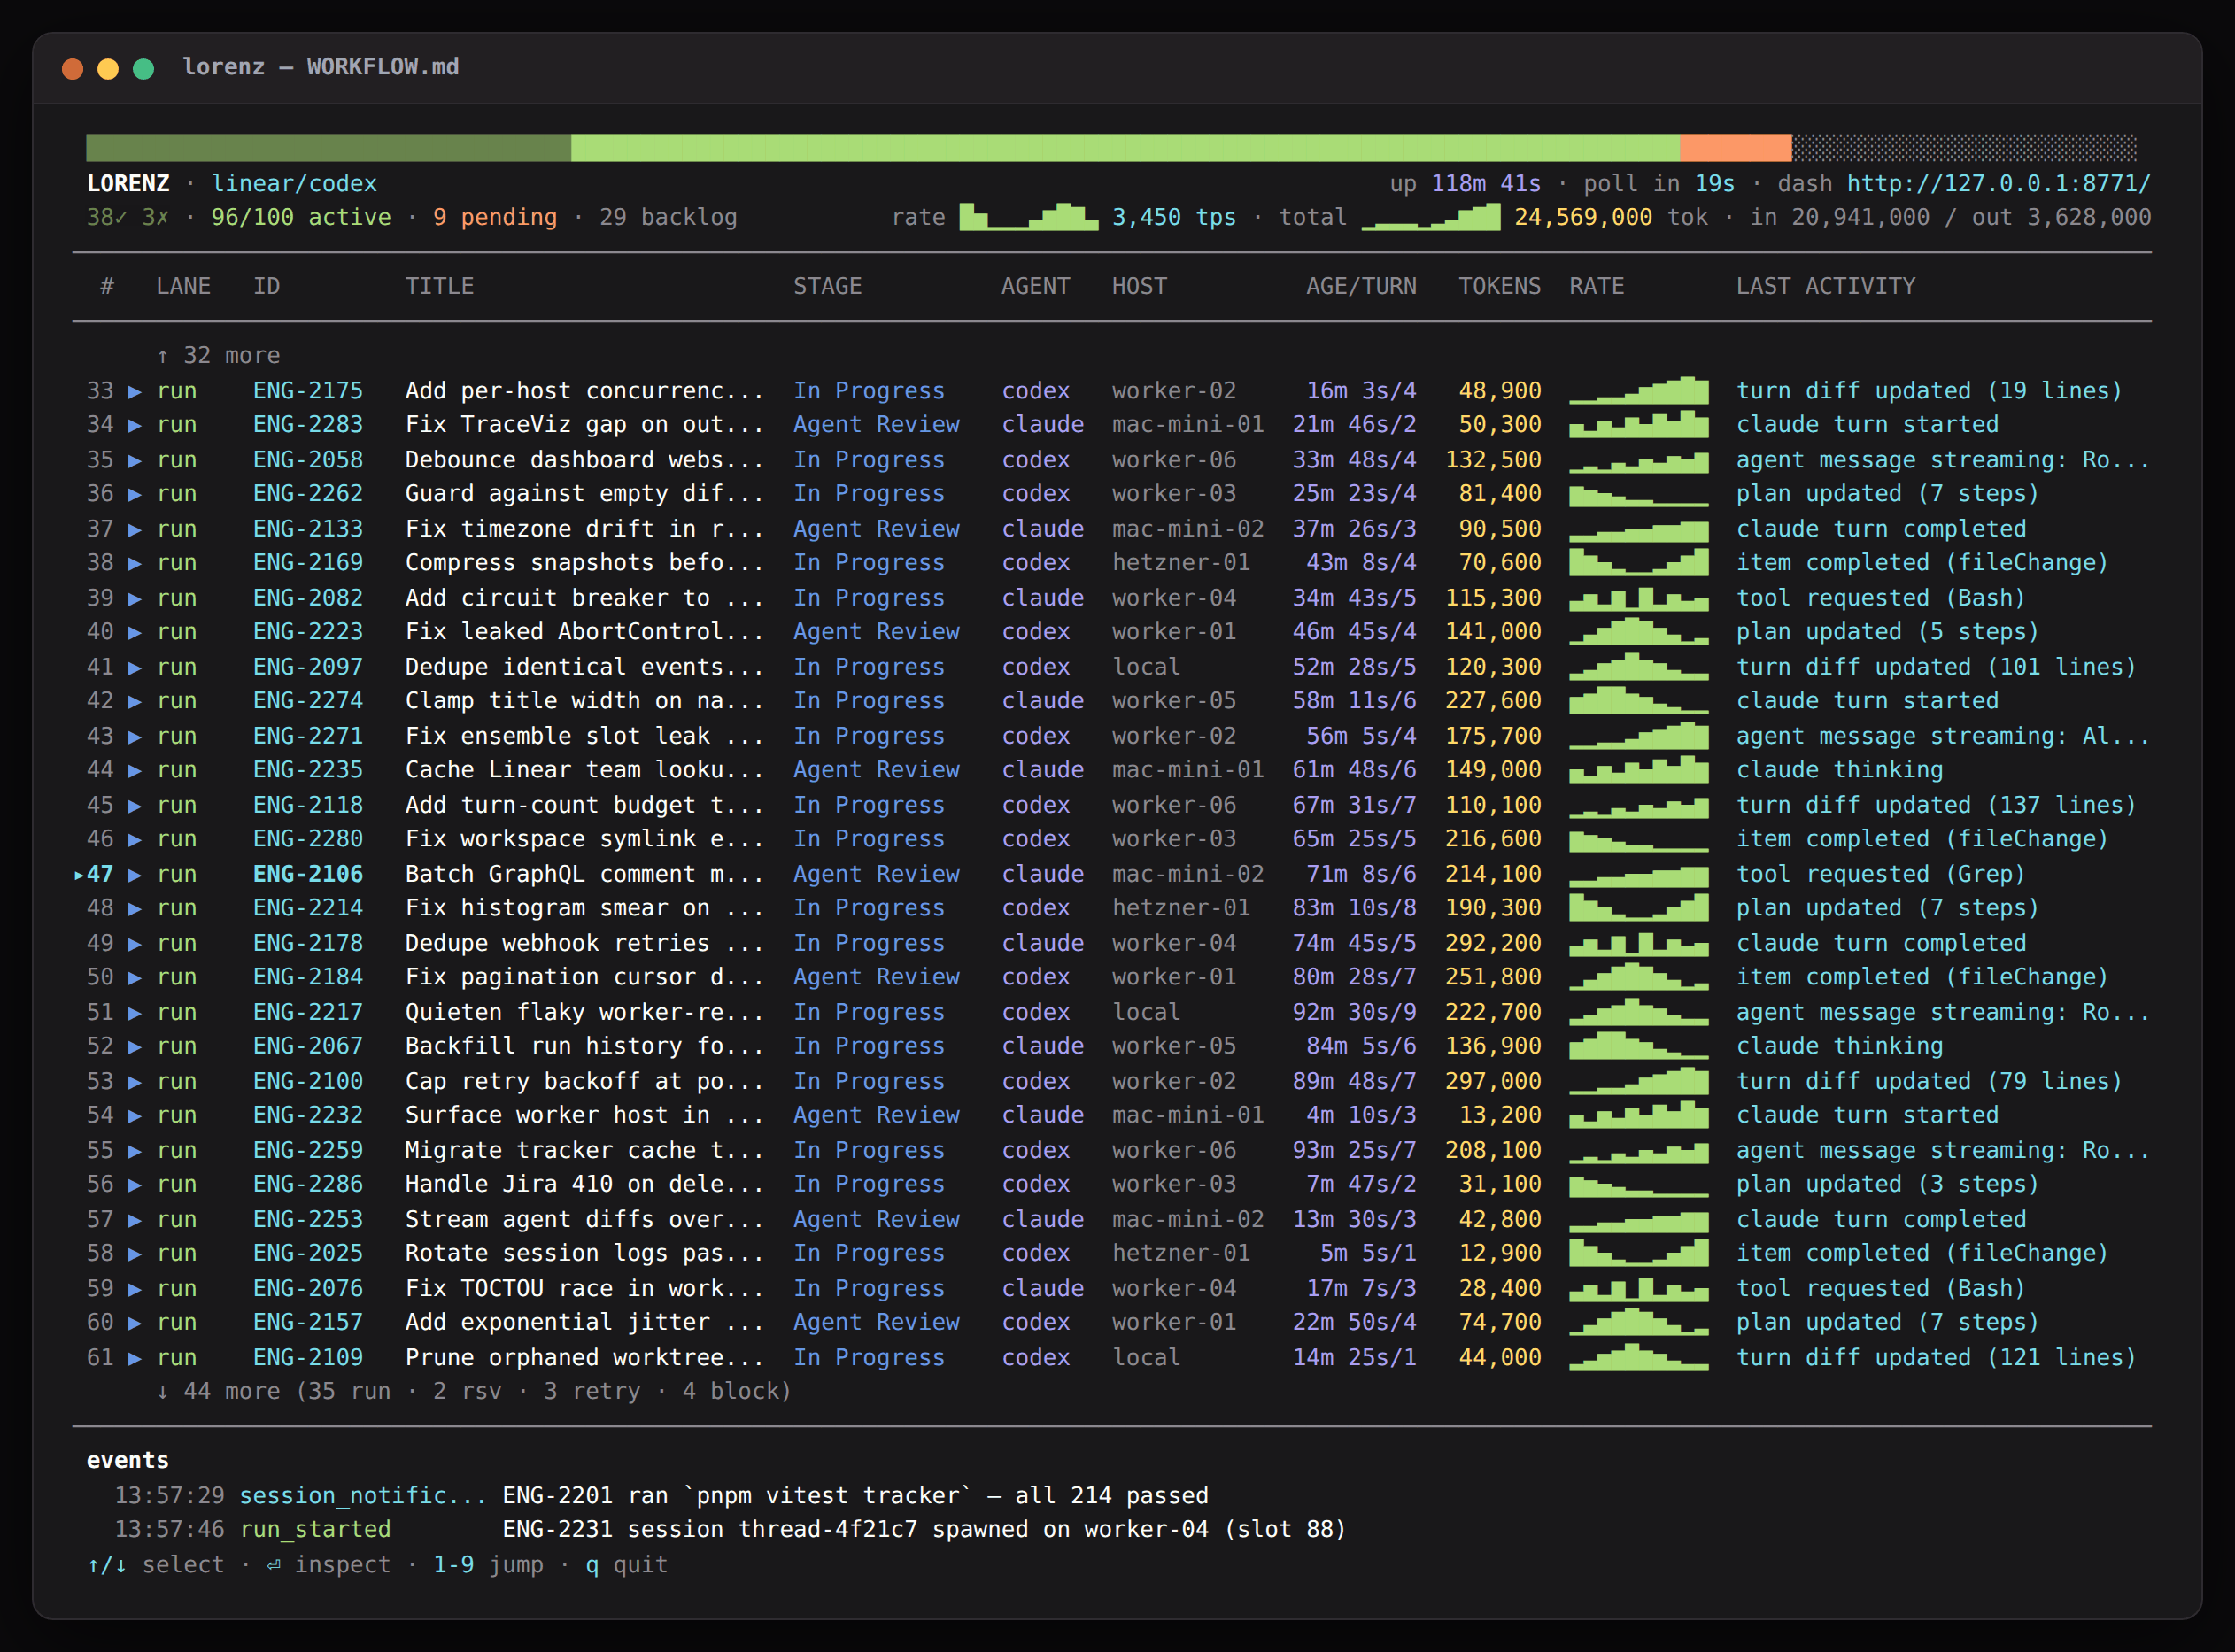
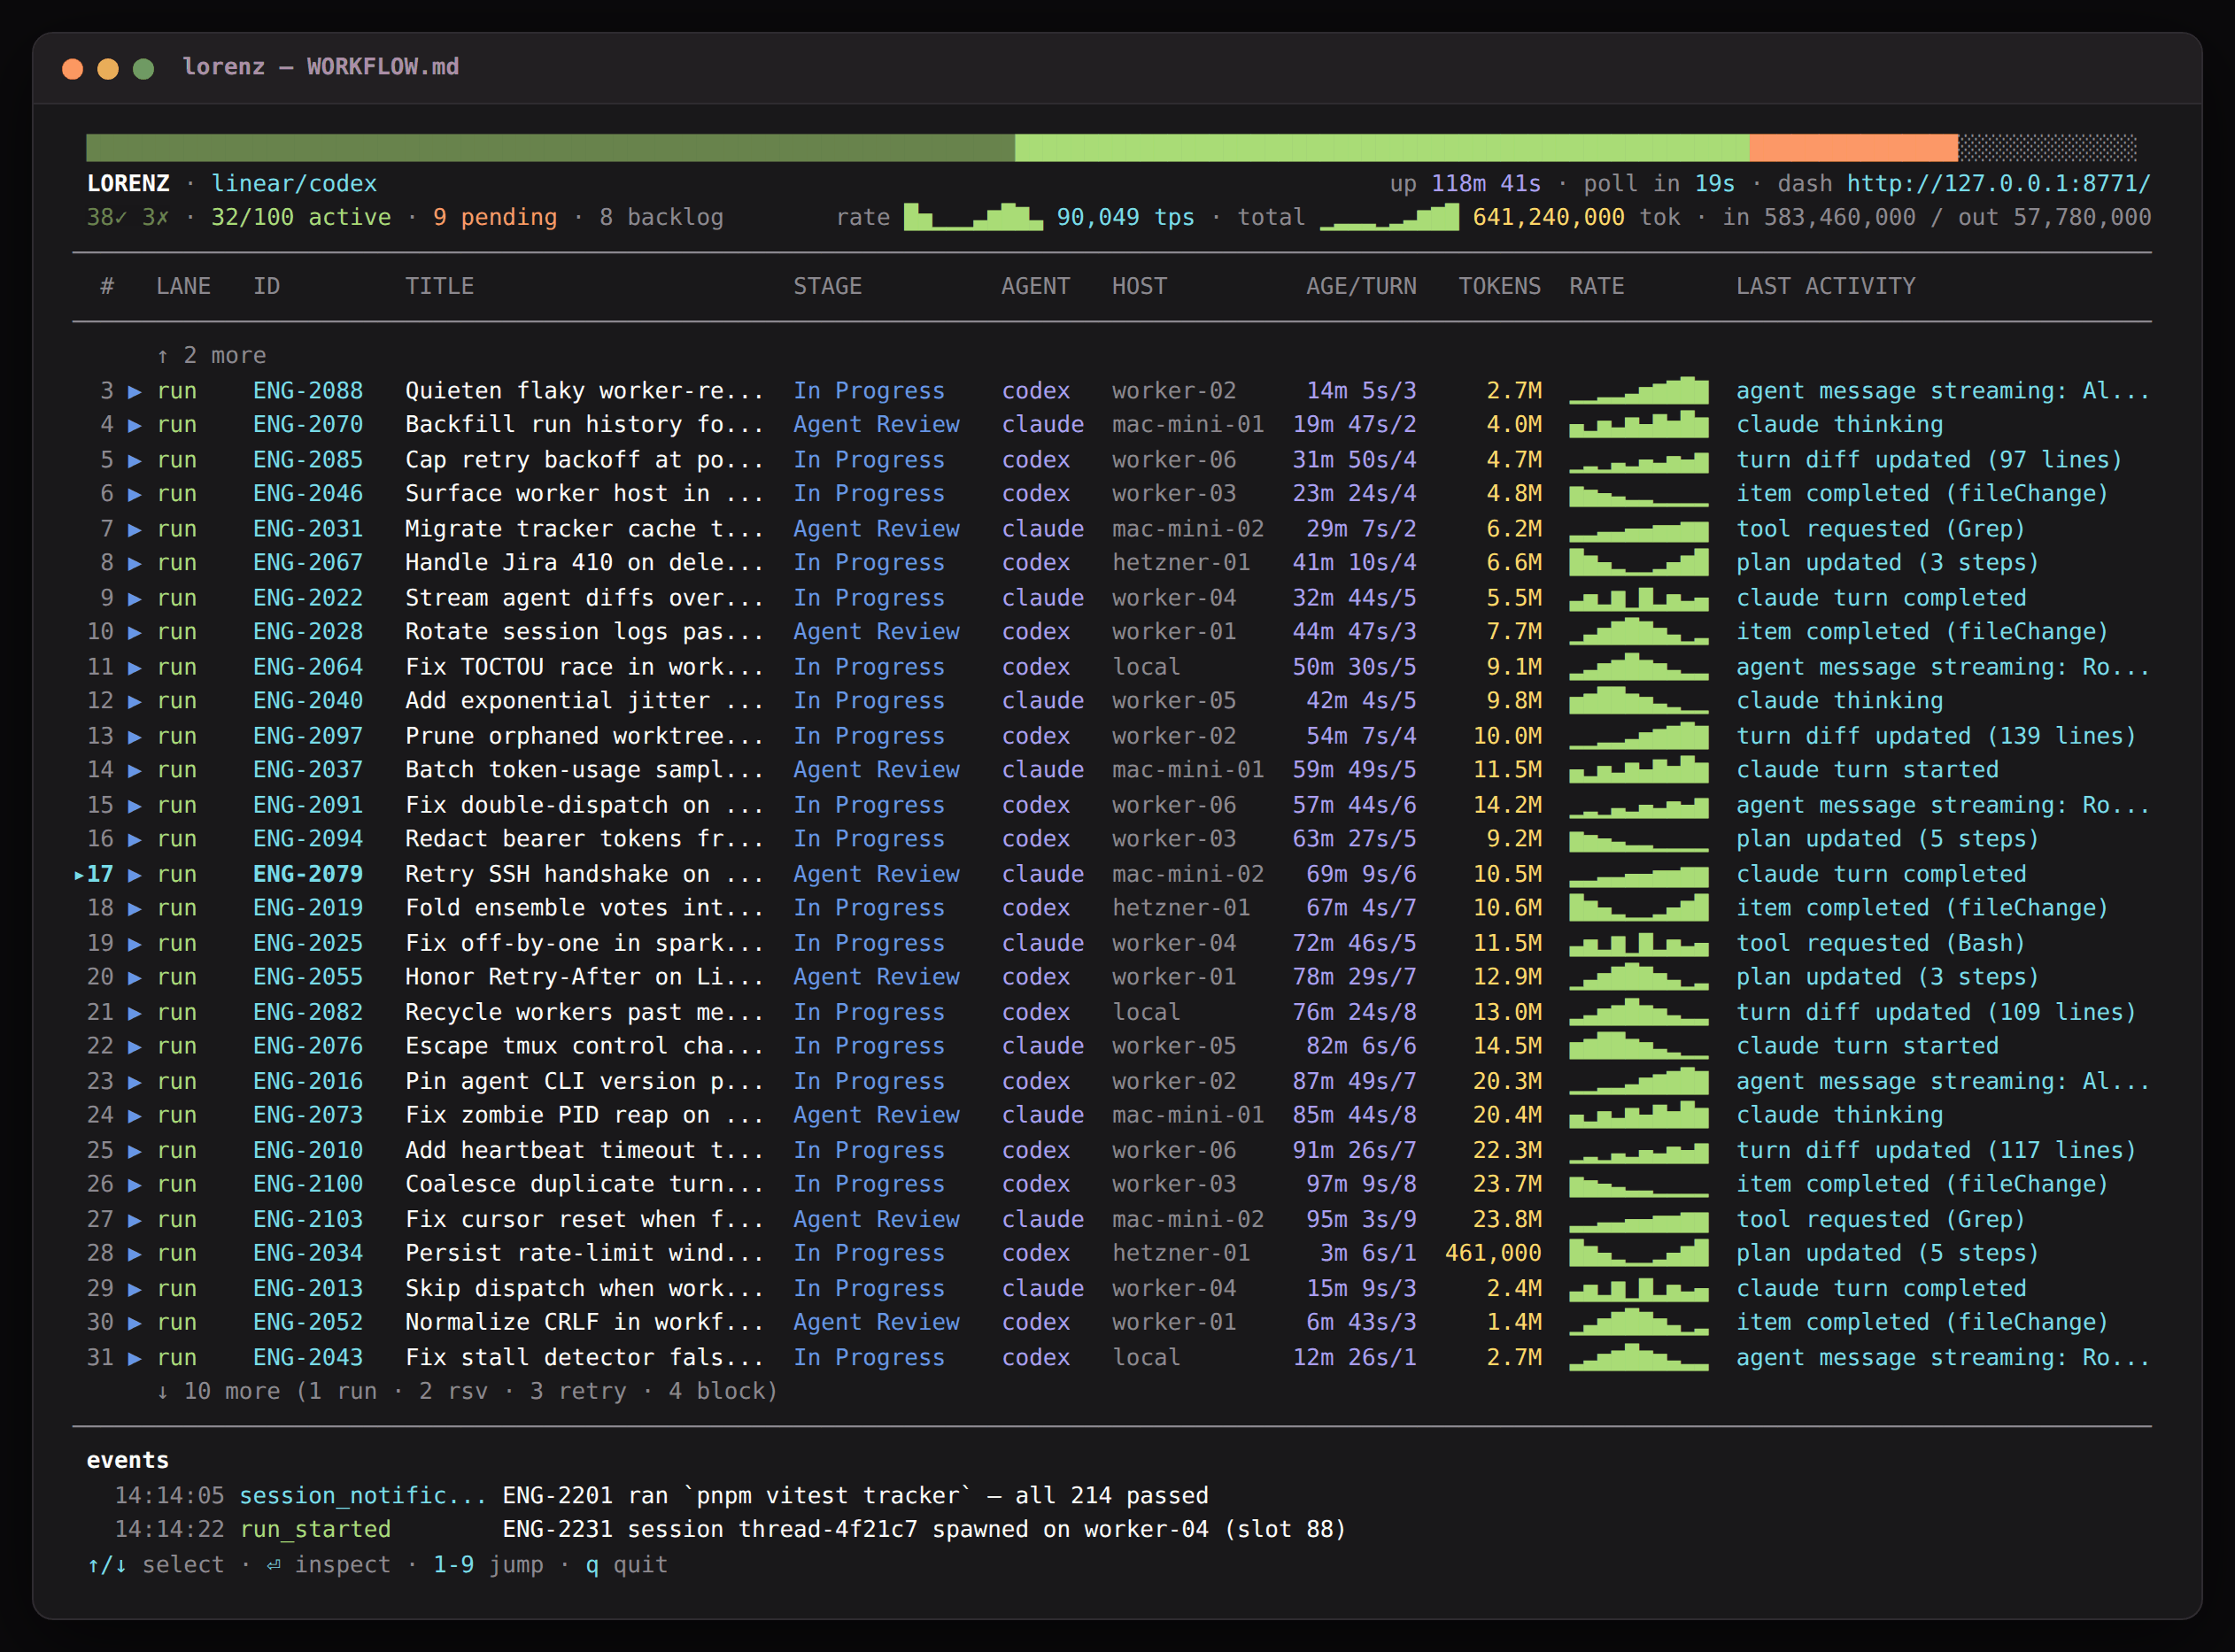
docs(tui): rescale hero to a realistic heavy fleet; compact big token cells
Calibrate the README hero to observed workloads: 32/100 agents at ~2.4-4.2k
tok/s each (~90k tps fleet-wide) with cumulative usage in the hundreds of
millions of tokens, instead of 96 slots of implausibly light runs. Blocked
rows and the dispatch_skipped event now cite host/local capacity since the
global cap is no longer saturated.

At these rates every real run crosses 1M tokens in minutes and the board's
fixed 7-char TOKENS column truncated to "12,4...", so formatRunningRow now
falls back to a width-aware compact form (12.5M / 1.2B) when the exact
grouped integer no longer fits; smaller values render unchanged, leaving
golden fixtures untouched.

Claude-Session: https://claude.ai/code/session_01AfQWgU3MYR6Roc5HLeyG8q

diff --git a/packages/tui/src/index.tsx b/packages/tui/src/index.tsx
@@ -1020,7 +1020,10 @@ function formatRunningRow(
     agent: { text: run.agentKind, color: "35" },
     host: { text: run.workerHost ?? "local", color: "90" },
     ageTurn: { text: ageTurn, color: "35" },
-    tokens: { text: formatInteger(run.usageTotals.totalTokens), color: "33" },
+    tokens: {
+      text: formatTokensForWidth(run.usageTotals.totalTokens, tokensWidth(layout)),
+      color: "33",
+    },
     ...(runSparkline ? { spark: { text: runSparkline(run), color: "32" } } : {}),
     activity: { text: humanizeAgentMessage(run.lastMessage ?? null), color: "36" },
   });
@@ -1250,6 +1253,30 @@ function secondsBetween(left: Date, right: Date | string): number {
 
 function formatInteger(value: number): string {
   return Math.round(value).toLocaleString("en-US");
+}
+
+function tokensWidth(layout: TableLayout): number {
+  return layout.columns.find((col) => col.spec.key === "tokens")?.width ?? 7;
+}
+
+/**
+ * Token counts past ~1M outgrow the fixed board column (a run at a few
+ * thousand tok/s crosses it in minutes), so fall back to a compact unit form
+ * instead of letting the cell truncate to "12,4...".
+ */
+function formatTokensForWidth(value: number, width: number): string {
+  const exact = formatInteger(value);
+  if (exact.length <= width) return exact;
+  for (const [divisor, suffix] of [
+    [1e9, "B"],
+    [1e6, "M"],
+    [1e3, "k"],
+  ] as const) {
+    if (value < divisor) continue;
+    const oneDecimal = `${(value / divisor).toFixed(1)}${suffix}`;
+    return oneDecimal.length <= width ? oneDecimal : `${Math.round(value / divisor)}${suffix}`;
+  }
+  return exact;
 }
 
 function coerceDate(value: Date | string | number | undefined): Date | null {

diff --git a/packages/tui/test/tui.test.ts b/packages/tui/test/tui.test.ts
@@ -539,6 +539,27 @@ test("terminal dashboard renders humanized last activity and worker host per run
   assert.notMatch(rendered, /4242/);
 });
 
+test("board token cells compact past the column width instead of truncating", () => {
+  const now = "2026-05-05T02:00:00.000Z";
+  const rendered = formatDashboard(
+    dashboardSnapshot({
+      now,
+      running: [
+        runningFixture("MT-BIG", "codex", "In Progress", "1", 3_600, 4, 12_456_700, null, now),
+        runningFixture("MT-HUGE", "claude", "In Progress", "2", 7_200, 9, 1_234_000_000, null, now),
+        runningFixture("MT-SMALL", "codex", "In Progress", "3", 60, 1, 461_000, null, now),
+      ],
+    }),
+    { now, runtimeSeconds: 3_600, throughputTps: 41, columns: 150 },
+  );
+
+  // Values that fit the column stay exact; larger ones compact to a unit form.
+  assert.match(rendered, /MT-BIG.*12\.5M/);
+  assert.match(rendered, /MT-HUGE.*1\.2B/);
+  assert.match(rendered, /MT-SMALL.*461,000/);
+  assert.notMatch(rendered, /12,4\.\.\./);
+});
+
 test("terminal dashboard sanitizes snapshot-derived strings before rendering", () => {
   const now = "2026-05-05T02:00:00.000Z";
   const rendered = formatDashboard(

diff --git a/docs/tui-redesign/README.md b/docs/tui-redesign/README.md
@@ -40,9 +40,10 @@
 > `board.png` / `board_wide.png` / `board_narrow.png` / `board_crowd.png` /
 > `detail.png` capture the real formatters (regenerate with
 > `node packages/tui/scripts/capture-live.mjs <out-dir>` and screenshot the HTML).
-> The same harness renders a `readme` view — a 96-agent fleet saturating a
-> 100-slot cap — which is the source of `docs/images/lorenz-tui.png` (screenshot
-> `readme.html` at 2× device scale, clipped to the window).
+> The same harness renders a `readme` view — a 32-agent fleet pushing ~90k tps
+> and hundreds of millions of tokens — which is the source of
+> `docs/images/lorenz-tui.png` (screenshot `readme.html` at 2× device scale,
+> clipped to the window).
 > Golden fixtures live in `test/fixtures/dashboard/` and regenerate with
 > `UPDATE_DASHBOARD_FIXTURES=1 vitest run packages/tui/test/tui.test.ts`.
 